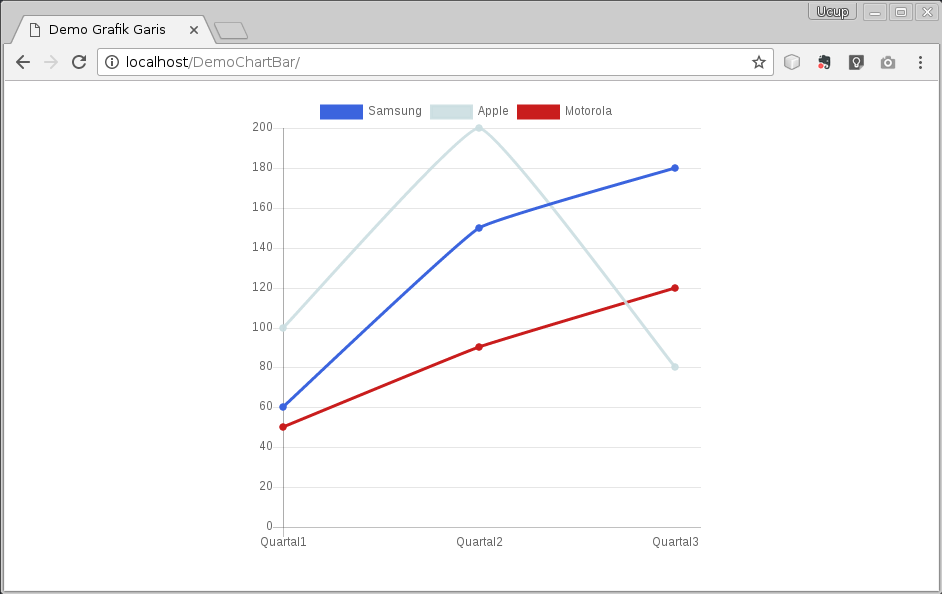
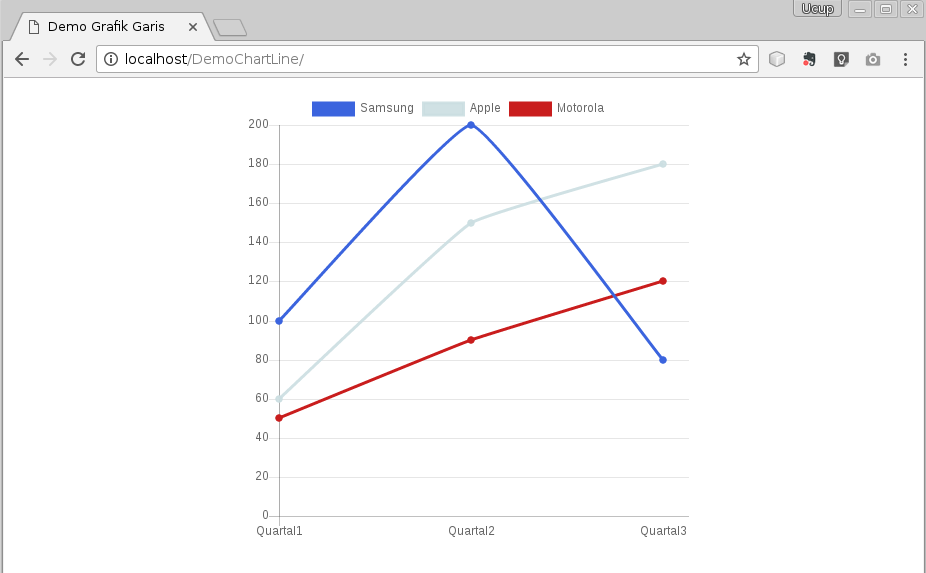
line chart

diff --git a/_posts/javascript/2017-06-11-membuat-grafik-garis-line-chart-denga-chartjs-php-mysql.md b/_posts/javascript/2017-06-11-membuat-grafik-garis-line-chart-denga-chartjs-php-mysql.md
@@ -52,15 +52,6 @@ CREATE TABLE "Penjualan" (
 Berikutnya buat file PHP untuk menampilkan datanya dalam bentuk chart. Misal kita kasi nama filenya `index.php` :
 
 ```html
-<?php
-$koneksi     = mysqli_connect("localhost", "root", "xxxxxx", "latihan");
-$penjualan      = mysqli_query($koneksi, "SELECT NamaProduk, Quartal1, Quartal2, Quartal3 FROM Penjualan");
-$samsung      = mysqli_query($koneksi, "SELECT NamaProduk, Quartal1, Quartal2, Quartal3 FROM Penjualan WHERE NamaProduk='Samsung'");
-$apple      = mysqli_query($koneksi, "SELECT NamaProduk, Quartal1, Quartal2, Quartal3 FROM Penjualan WHERE NamaProduk='Apple'");
-$motorola      = mysqli_query($koneksi, "SELECT NamaProduk, Quartal1, Quartal2, Quartal3 FROM Penjualan WHERE NamaProduk='Motorola'");
-
- ?>
-<!DOCTYPE html>
 <html>
   <head>
     <meta charset="utf-8">
@@ -79,6 +70,15 @@ $motorola      = mysqli_query($koneksi, "SELECT NamaProduk, Quartal1, Quartal2, 
             <canvas id="demobar" width="100" height="100"></canvas>
     </div>
 
+    <?php
+    $koneksi     = mysqli_connect("localhost", "root", "xxxxxx", "bdi");
+    $penjualan      = mysqli_query($koneksi, "SELECT NamaProduk, Quartal1, Quartal2, Quartal3 FROM Penjualan");
+    $samsung      = mysqli_query($koneksi, "SELECT NamaProduk, Quartal1, Quartal2, Quartal3 FROM Penjualan WHERE NamaProduk='Samsung'");
+    $apple      = mysqli_query($koneksi, "SELECT NamaProduk, Quartal1, Quartal2, Quartal3 FROM Penjualan WHERE NamaProduk='Apple'");
+    $motorola      = mysqli_query($koneksi, "SELECT NamaProduk, Quartal1, Quartal2, Quartal3 FROM Penjualan WHERE NamaProduk='Motorola'");
+
+     ?>
+
       	<script  type="text/javascript">
 
     	  var ctx = document.getElementById("demobar").getContext("2d");
@@ -92,8 +92,8 @@ $motorola      = mysqli_query($koneksi, "SELECT NamaProduk, Quartal1, Quartal2, 
                     backgroundColor: "rgba(59, 100, 222, 1)",
                     borderColor: "rgba(59, 100, 222, 1)",
                     pointHoverBackgroundColor: "rgba(59, 100, 222, 1)",
-					pointHoverBorderColor: "rgba(59, 100, 222, 1)",
-    	            data: [<?php while ($p = mysqli_fetch_array($apple)) { echo '"' . $p['Quartal1'] . '","' . $p['Quartal2'] . '","' . $p['Quartal3'] . '",';}?>]
+						        pointHoverBorderColor: "rgba(59, 100, 222, 1)",
+    	              data: [<?php while ($p = mysqli_fetch_array($samsung)) { echo '"' . $p['Quartal1'] . '","' . $p['Quartal2'] . '","' . $p['Quartal3'] . '",';}?>]
     	            },
                   {
     	              label: "Apple",
@@ -102,8 +102,8 @@ $motorola      = mysqli_query($koneksi, "SELECT NamaProduk, Quartal1, Quartal2, 
                     backgroundColor: "rgba(203, 222, 225, 0.9)",
                     borderColor: "rgba(203, 222, 225, 0.9)",
                     pointHoverBackgroundColor: "rgba(203, 222, 225, 0.9)",
-					pointHoverBorderColor: "rgba(203, 222, 225, 0.9)",
-    	            data: [<?php while ($p = mysqli_fetch_array($samsung)) { echo '"' . $p['Quartal1'] . '","' . $p['Quartal2'] . '","' . $p['Quartal3'] . '",';}?>]
+						        pointHoverBorderColor: "rgba(203, 222, 225, 0.9)",
+    	              data: [<?php while ($p = mysqli_fetch_array($apple)) { echo '"' . $p['Quartal1'] . '","' . $p['Quartal2'] . '","' . $p['Quartal3'] . '",';}?>]
     	            },
                   {
     	              label: "Motorola",
@@ -112,8 +112,8 @@ $motorola      = mysqli_query($koneksi, "SELECT NamaProduk, Quartal1, Quartal2, 
                     backgroundColor: "rgba(201, 29, 29, 1)",
                     borderColor: "rgba(201, 29, 29, 1)",
                     pointHoverBackgroundColor: "rgba(201, 29, 29, 1)",
-			        pointHoverBorderColor: "rgba(201, 29, 29, 1)",
-			        data: [<?php while ($p = mysqli_fetch_array($motorola)) { echo '"' . $p['Quartal1'] . '","' . $p['Quartal2'] . '","' . $p['Quartal3'] . '",';}?>]
+						        pointHoverBorderColor: "rgba(201, 29, 29, 1)",
+						        data: [<?php while ($p = mysqli_fetch_array($motorola)) { echo '"' . $p['Quartal1'] . '","' . $p['Quartal2'] . '","' . $p['Quartal3'] . '",';}?>]
     	            }
     	            ]
     	            };
